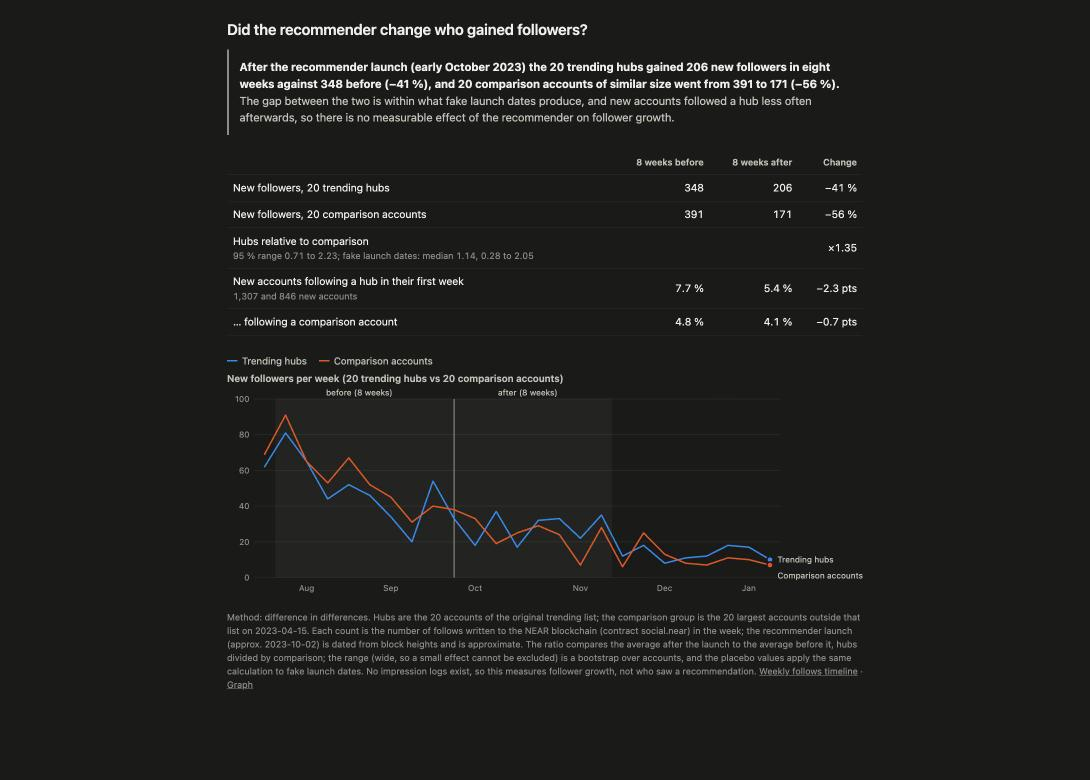
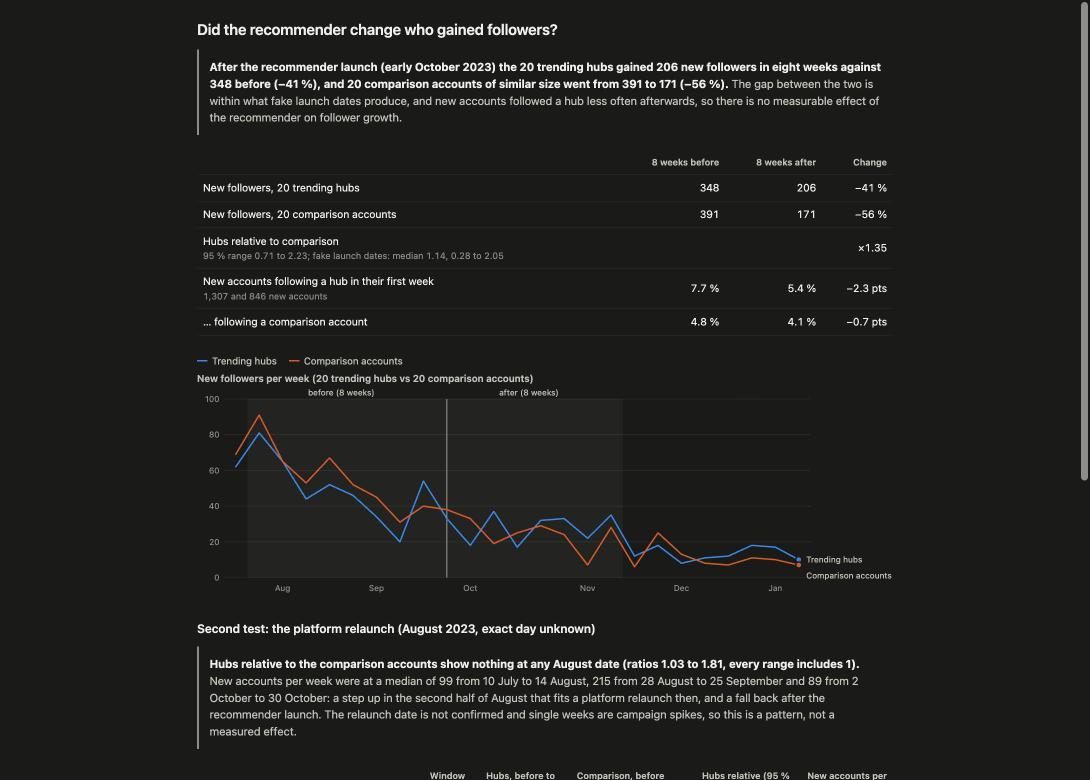
impact: add the platform relaunch as a second test
The hub-against-comparison test is repeated for every Monday in August 2023
(the exact relaunch day is unconfirmed), with window lengths that end before
the recommender launch, plus weekly new accounts. impact.html and README get
a second section; the missing aqua series color is defined.

diff --git a/impact.html b/impact.html
@@ -15,6 +15,7 @@
       --text-muted: #7b7a75;
       --s1: #2a78d6;
       --s2: #eb6834;
+      --s3: #1baf7a;
     }
 
     @media (prefers-color-scheme: dark) {
@@ -27,6 +28,7 @@
         --text-muted: #8d8c85;
         --s1: #3987e5;
         --s2: #d95926;
+        --s3: #199e70;
       }
     }
 
@@ -39,6 +41,7 @@
       --text-muted: #8d8c85;
       --s1: #3987e5;
       --s2: #d95926;
+      --s3: #199e70;
     }
 
     * {
@@ -53,7 +56,7 @@
     }
 
     main {
-      max-width: 880px;
+      max-width: 960px;
       margin: 0 auto;
       padding: 24px 16px 48px;
     }
@@ -125,6 +128,20 @@
       vertical-align: 4px;
     }
 
+    #table2 td {
+      white-space: nowrap;
+    }
+
+    #table2 th {
+      vertical-align: bottom;
+    }
+
+    h2.section {
+      margin: 32px 0 12px;
+      font-size: 16px;
+      color: var(--text-primary);
+    }
+
     h2 {
       margin: 0;
       font-size: 13px;
@@ -132,7 +149,8 @@
       color: var(--text-secondary);
     }
 
-    #chart {
+    #chart,
+    #chart2 {
       position: relative;
     }
 
@@ -226,6 +244,12 @@
     <ul class="legend" id="legend"></ul>
     <h2>New followers per week (20 trending hubs vs 20 comparison accounts)</h2>
     <div id="chart"></div>
+
+    <h2 class="section">Second test: the platform relaunch (August 2023, exact day unknown)</h2>
+    <p class="verdict" id="verdict2"></p>
+    <table id="table2"></table>
+    <h2>New accounts per week (accounts whose first follow falls into the week)</h2>
+    <div id="chart2"></div>
 
     <p class="foot">Method: difference in differences. Hubs are the 20 accounts of the original trending list; the
       comparison group is the 20 largest accounts outside that list on 2023-04-15. Each count is the number of follows
@@ -366,6 +390,85 @@ const pct = (a, b) => `${a >= b ? '+' : '−'}${Math.abs(Math.round((a / b - 1) 
       hit.addEventListener('pointerleave', () => { tip.style.display = 'none'; cross.style.display = 'none'; });
     }
 
+    const median = values => { const v = [...values].sort((a, b) => a - b); return (v[(v.length - 1) >> 1] + v[v.length >> 1]) / 2; };
+    const range = (data, from, to) => data.weeks.filter(w => w.week >= from && w.week <= to).map(w => w.new_accounts);
+
+    function platform(data) {
+      const s = data.summary;
+      const ratios = s.platform_relaunch.map(p => p.did);
+      const inflow = [['2023-07-10', '2023-08-14'], ['2023-08-28', '2023-09-25'], ['2023-10-02', '2023-10-30']].map(([a, b]) => median(range(data, a, b)));
+      const p = document.getElementById('verdict2');
+      p.replaceChildren();
+      const strong = document.createElement('strong');
+      strong.textContent = `Hubs relative to the comparison accounts show nothing at any August date (ratios ${Math.min(...ratios).toFixed(2)} to ${Math.max(...ratios).toFixed(2)}, every range includes 1). `;
+      p.append(strong, document.createTextNode(
+        `New accounts per week were at a median of ${inflow[0]} from 10 July to 14 August, ${inflow[1]} from 28 August to 25 September and ${inflow[2]} from 2 October to 30 October: a step up in the second half of August that fits a platform relaunch then, and a fall back after the recommender launch. The relaunch date is not confirmed and single weeks are campaign spikes, so this is a pattern, not a measured effect.`));
+
+      const t = document.getElementById('table2');
+      t.replaceChildren();
+      const head = t.createTHead().insertRow();
+      ['Possible relaunch date', 'Window (weeks)', 'Hubs, before to after', 'Comparison, before to after', 'Hubs relative (95 % range)', 'New accounts per week'].forEach(h => text(head, 'th', h));
+      const body = t.createTBody();
+      s.platform_relaunch.forEach(r => {
+        const row = body.insertRow();
+        [r.date, r.weeks, `${r.hubs[0]} to ${r.hubs[1]}`, `${r.control[0]} to ${r.control[1]}`,
+          `×${r.did.toFixed(2)} (${r.did_ci95[0].toFixed(2)} to ${r.did_ci95[1].toFixed(2)})`,
+          `${Math.round(r.new_accounts_per_week[0])} to ${Math.round(r.new_accounts_per_week[1])}`].forEach(v => { row.insertCell().textContent = v; });
+      });
+      const rec = body.insertRow();
+      ['Recommender launch, for comparison', s.weeks, `${s.hubs.before} to ${s.hubs.after}`, `${s.control.before} to ${s.control.after}`,
+        `×${s.did.toFixed(2)} (${s.did_ci95[0].toFixed(2)} to ${s.did_ci95[1].toFixed(2)})`,
+        `${Math.round(s.new_accounts_per_week_recommender[0])} to ${Math.round(s.new_accounts_per_week_recommender[1])}`].forEach(v => { rec.insertCell().textContent = v; });
+      rec.style.fontWeight = '600';
+    }
+
+    function chart2(data) {
+      const host = document.getElementById('chart2');
+      host.querySelector('svg')?.remove();
+      const weeks = data.weeks.filter(w => w.week >= '2023-07-03' && w.week <= '2023-11-27');
+      const idx = day => weeks.findIndex(w => w.week >= day);
+      const launchWeek = idx(data.summary.launch);
+      const W = Math.max(320, host.clientWidth), H = 220, M = { l: 36, r: 8, t: 22, b: 24 };
+      const plotW = W - M.l - M.r, plotH = H - M.t - M.b, slot = plotW / weeks.length, bw = Math.min(24, slot - 2);
+      const max = Math.max(...weeks.map(w => w.new_accounts));
+      const step = max > 200 ? 100 : 50, top = Math.ceil(max / step) * step;
+      const y = v => M.t + plotH - (v / top) * plotH;
+      const svg = el('svg', { viewBox: `0 0 ${W} ${H}`, role: 'img', 'aria-label': 'New accounts per week' });
+      host.appendChild(svg);
+      for (let v = 0; v <= top; v += step) {
+        el('line', { class: 'grid', x1: M.l, x2: W - M.r, y1: y(v), y2: y(v) }, svg);
+        el('text', { x: M.l - 6, y: y(v) + 4, 'text-anchor': 'end' }, svg).textContent = v;
+      }
+      const a = idx('2023-07-31'), b = idx('2023-08-28') + 1;
+      el('rect', { x: M.l + a * slot, y: M.t, width: (b - a) * slot, height: plotH, style: 'fill: var(--text-primary); fill-opacity: .06' }, svg);
+      el('text', { class: 'note', x: M.l + (a + b) / 2 * slot, y: M.t - 7, 'text-anchor': 'middle' }, svg).textContent = 'August: possible relaunch';
+      weeks.forEach((w, i) => {
+        const x = M.l + i * slot + (slot - bw) / 2, h = plotH - (y(w.new_accounts) - M.t);
+        el('path', { d: `M${x},${y(0)}V${y(w.new_accounts) + 4}Q${x},${y(w.new_accounts)} ${x + 4},${y(w.new_accounts)}H${x + bw - 4}Q${x + bw},${y(w.new_accounts)} ${x + bw},${y(w.new_accounts) + 4}V${y(0)}Z`, style: 'fill: var(--s3)' }, svg);
+        const hit = el('rect', { class: 'hit', x: M.l + i * slot, y: M.t, width: slot, height: plotH, fill: 'transparent' }, svg);
+        const showTip = evt => {
+          tip.replaceChildren();
+          text(tip, 'div', `Week of ${w.week}`, 'head');
+          const row = document.createElement('div');
+          row.className = 'row';
+          text(row, 'span', 'New accounts');
+          text(row, 'b', w.new_accounts);
+          tip.appendChild(row);
+          tip.style.display = 'block';
+          const tb = tip.getBoundingClientRect();
+          tip.style.left = `${Math.max(8, Math.min(evt.clientX + 14, innerWidth - tb.width - 8))}px`;
+          tip.style.top = `${Math.max(8, Math.min(evt.clientY + 14, innerHeight - tb.height - 8))}px`;
+        };
+        hit.addEventListener('pointermove', showTip);
+        hit.addEventListener('pointerleave', () => { tip.style.display = 'none'; });
+        const d = new Date(w.week);
+        if (d.getDate() <= 7) el('text', { x: M.l + i * slot + slot / 2, y: H - 6, 'text-anchor': 'middle' }, svg).textContent = MONTHS[d.getMonth()];
+      });
+      const lx = M.l + launchWeek * slot + slot / 2;
+      el('line', { class: 'launch', x1: lx, x2: lx, y1: M.t, y2: M.t + plotH }, svg);
+      el('text', { class: 'note', x: lx + 6, y: M.t + 10 }, svg).textContent = 'Recommender launch';
+    }
+
     fetch('./data/impact.json').then(r => r.json()).then(data => {
       const legend = document.getElementById('legend');
       SERIES.forEach(s => {
@@ -378,8 +481,10 @@ const pct = (a, b) => `${a >= b ? '+' : '−'}${Math.abs(Math.round((a / b - 1) 
       verdict(data.summary);
       table(data.summary);
       chart(data);
+      platform(data);
+      chart2(data);
       let timer;
-      addEventListener('resize', () => { clearTimeout(timer); timer = setTimeout(() => chart(data), 100); });
+      addEventListener('resize', () => { clearTimeout(timer); timer = setTimeout(() => { chart(data); chart2(data); }, 100); });
     });
   </script>
 </body>

diff --git a/pipeline/impact.py b/pipeline/impact.py
@@ -4,6 +4,8 @@ Treated: the 20 hubs of the original trending list (the accounts a "trending use
 Control: the 20 largest accounts outside that list on 2023-04-15, not recommended by that rule.
 Outcome: new followers per week (from the block height at which each follow was written).
 Statistic: ratio of the weekly average after the launch to the average before it, treated divided by control.
+The same test is repeated for possible dates of the near.org platform relaunch ("August 2023", exact day unknown),
+together with the weekly number of new accounts (accounts whose first follow falls into the week).
 A ratio above 1 means the hubs gained relative to the control; the same statistic is computed for placebo
 launch dates to show how large the ratio is by chance. Needs data/edges_bh_2024-01-15.json; run from the repo root.
 """
@@ -144,9 +146,38 @@ def main():
     summary['conversion_aurora_to_other'] = {
         'before': conversion('2023-04-15', LAUNCH, months_pre), 'after': conversion(LAUNCH, '2024-01-15', months_post)}
 
+    # second event: the platform relaunch, "August 2023" (exact day unknown). The same test is run for each Monday in
+    # August; the window is shortened so that the "after" period ends before the recommender launch.
+    def new_accounts_per_week(first, last):
+        return sum(1 for d0 in first_seen.values() if first <= week_index(d0) < last) / max(1, last - first)
+
+    platform = []
+    for day in ('2023-08-07', '2023-08-14', '2023-08-21', '2023-08-28'):
+        at = week_index(datetime.date.fromisoformat(day))
+        w = min(WEEKS, launch - at)
+        boots_p = []
+        rng_p = random.Random(2)
+        for _ in range(2000):
+            idx = ([rng_p.randrange(20) for _ in range(20)], [rng_p.randrange(20) for _ in range(20)])
+            v = did(at, w, idx)
+            if not math.isnan(v) and v > 0:
+                boots_p.append(math.log(v))
+        boots_p.sort()
+        platform.append({
+            'date': day, 'weeks': w,
+            'hubs': [sum(sum(g[at - w:at]) for g in treated), sum(sum(g[at:at + w]) for g in treated)],
+            'control': [sum(sum(g[at - w:at]) for g in control), sum(sum(g[at:at + w]) for g in control)],
+            'did': round(did(at, w), 3),
+            'did_ci95': [round(math.exp(boots_p[int(.025 * len(boots_p))]), 3), round(math.exp(boots_p[int(.975 * len(boots_p))]), 3)],
+            'new_accounts_per_week': [round(new_accounts_per_week(at - w, at), 1), round(new_accounts_per_week(at, at + w), 1)],
+        })
+    summary['platform_relaunch'] = platform
+    summary['new_accounts_per_week_recommender'] = [round(new_accounts_per_week(launch - WEEKS, launch), 1), round(new_accounts_per_week(launch, launch + WEEKS), 1)]
+
     out = {'summary': summary, 'placebo_by_week': placebo_by_week, 'weeks': [
         {'week': (datetime.date(2023, 1, 2) + datetime.timedelta(weeks=w)).isoformat(),
-         'hubs': sum(g[w] for g in treated), 'control': sum(g[w] for g in control)}
+         'hubs': sum(g[w] for g in treated), 'control': sum(g[w] for g in control),
+         'new_accounts': sum(1 for d0 in first_seen.values() if week_index(d0) == w)}
         for w in range(n_weeks)]}
     json.dump(out, open('data/impact.json', 'w'), separators=(',', ':'))
     print(json.dumps(summary, indent=1))

diff --git a/README.md b/README.md
@@ -31,8 +31,8 @@ According to the project author, the timeline was: research in spring 2023 (Goog
 bootcamp the author was hired as a freelancer and worked on it full-time from September 2023, improved all three
 methods and handed over the complete package. The author kept no copy of that final code, so the bootcamp repository
 is the only code that survives. The recommender went live
-in early October 2023. The near.org platform, relaunched in August 2023, was shut
-down in March 2024.
+in early October 2023. The near.org platform, a new interface that replaced the dated
+near.social front end in August 2023, was shut down in March 2024.
 
 This repository is not that launched system. It rebuilds the network data around it from the public chain, and it
 replays the ideas of the bootcamp code (below).
@@ -111,6 +111,16 @@ have pushed. Details, table and method are on [impact.html](impact.html); the ca
 (difference in differences with a bootstrap over accounts and placebo launch dates). There are no impression logs, so
 this measures follower growth, not who saw a recommendation.
 
+### Second test: the interface relaunch (near.org)
+
+![Test at possible relaunch dates and new accounts per week](docs/images/impact-platform.jpg)
+
+The same hub-against-comparison test at any Monday in August 2023 shows nothing (ratios 1.03 to 1.81, every 95 % range
+includes 1), but new accounts per week stepped up in the second half of August (median 99 per week from 10 July to
+14 August, 215 from 28 August to 25 September) and fell back after the recommender launch (89 per week in October).
+That fits a relaunch of the interface in late August, but the exact day is not confirmed (see the limitations), single weeks
+are campaign spikes, and a pattern in the same data that was used to look for it is not a measured effect.
+
 ## Replaying the bootcamp recommender ideas
 
 How well would the ideas of the bootcamp repository have predicted the follows that really happened? This is not a
@@ -165,10 +175,14 @@ commented out in `recommender.py`, so the number shows what the idea can do, not
   would need transaction data (for example NEAR Lake or the public BigQuery dataset).
 - **Only follow edges still present are seen.** The account list comes from today's follow keys
   (`api.near.social`), so accounts that have since removed every follow are missing.
-- **"Launch" always means the recommender**, dated approximately to early October 2023. The switch of the platform
-  from near.social to near.org (August 2023, per the author) is a separate event that is not modeled; both used the
-  same `social.near` data, so the chain data is continuous across it. The eight weeks before the launch (from
-  2023-08-07) overlap the weeks after that relaunch.
+- **"Launch" always means the recommender**, dated approximately to early October 2023. The relaunch of the
+  platform's interface (near.org, a new front end replacing near.social in August 2023, per the author) is a separate
+  event and gets its own test; both show the same `social.near` data, so the chain data is continuous across it. The
+  eight weeks before the recommender launch (from 2023-08-07) overlap the weeks after that relaunch. No public source
+  for the exact relaunch day was found, so the second test runs for every Monday in August. (The Blockchain Operating
+  System, the technology under near.org, was announced earlier, in March 2023, see
+  [The Paypers, 2023-03-06](https://thepaypers.com/cryptocurrencies/near-launches-the-blockchain-operating-system--1261648);
+  that is a different event.)
 - **Block heights to dates** are interpolated between blocks with exactly known timestamps (error of a few days).
 
 ## Repository layout
@@ -176,7 +190,7 @@ commented out in `recommender.py`, so the number shows what the idea can do, not
 | Path | Content |
 |---|---|
 | `index.html` | 3D graph (three.js via 3d-force-graph, all CDN versions pinned) with a snapshot switcher |
-| `impact.html` | did the recommender change who gained followers: table, chart, two sentences |
+| `impact.html` | did the recommender (and the platform relaunch) change who gained followers: tables, charts, short summaries |
 | `timeline.html` | weekly follows and bridge events, plain SVG, light and dark theme, table view |
 | `trending_users.json` | the original dataset from spring 2023 |
 | `data/raw/follows_<date>.json` | follow graph snapshots: `{block, label, follows: {account: [followed, ...]}}` |
